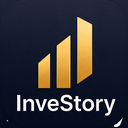
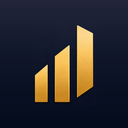
v0.1.02: иконка без словесного знака
Android и так подписывает ярлык названием, а на экране входа заголовок
InveStory стоит прямо под логотипом — слово дублировалось в обоих местах.
На 48 px словесный знак к тому же превращался в нечитаемую кашу.

Столбики увеличены с 60% до 65% высоты плитки и отцентрованы. Фон под
удалённым текстом восстановлен построчно (плитка — вертикальный градиент,
цвет каждой строки взят из пустой левой полосы), поэтому шва нет.

Плитка теперь сплошной квадрат без прозрачных углов: маску рисует лаунчер.
Это заодно убрало светлые клинья в нижних углах — след августовской заплатки
на чёрную рамку. Вернуться той рамке больше неоткуда.

Обновлены 8 веб-иконок и 5 папок mipmap (квадратные и круглые варианты).

diff --git a/index.html b/index.html
@@ -2896,7 +2896,7 @@ body.modern-mockup.theme-light .total-currency{
 
 
 // ── SUBSCRIPTION ACCESS STATE ─────────────────────────────
-const APP_VERSION = 'v0.1.01';
+const APP_VERSION = 'v0.1.02';
 const APP_BUILD_DATE = '2026-07-01';
 const STORAGE_SCHEMA_VERSION = 7;
 const STORAGE_KEY = 'kapital_v6';

diff --git a/sw.js b/sw.js
@@ -1,4 +1,4 @@
-const CACHE_NAME = 'investory-app-v0-1-01-eff-rate-match-bank';
+const CACHE_NAME = 'investory-app-v0-1-02-icon-no-wordmark';
 const APP_SHELL = [
   './',
   './index.html',
